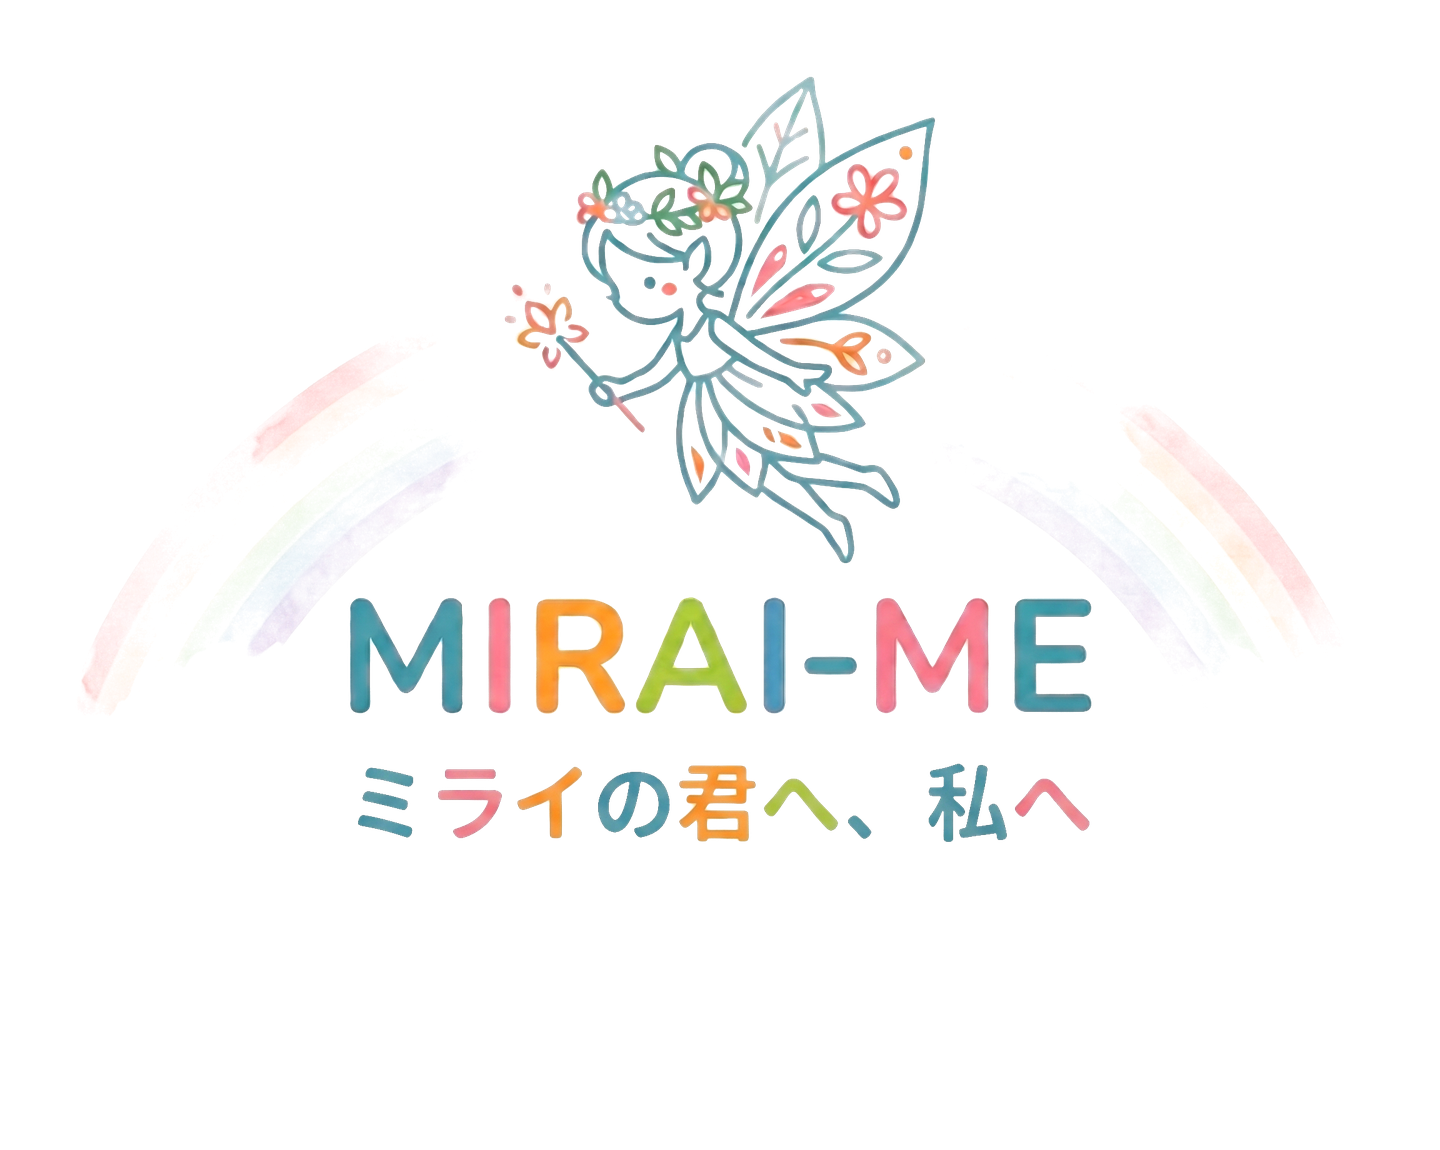
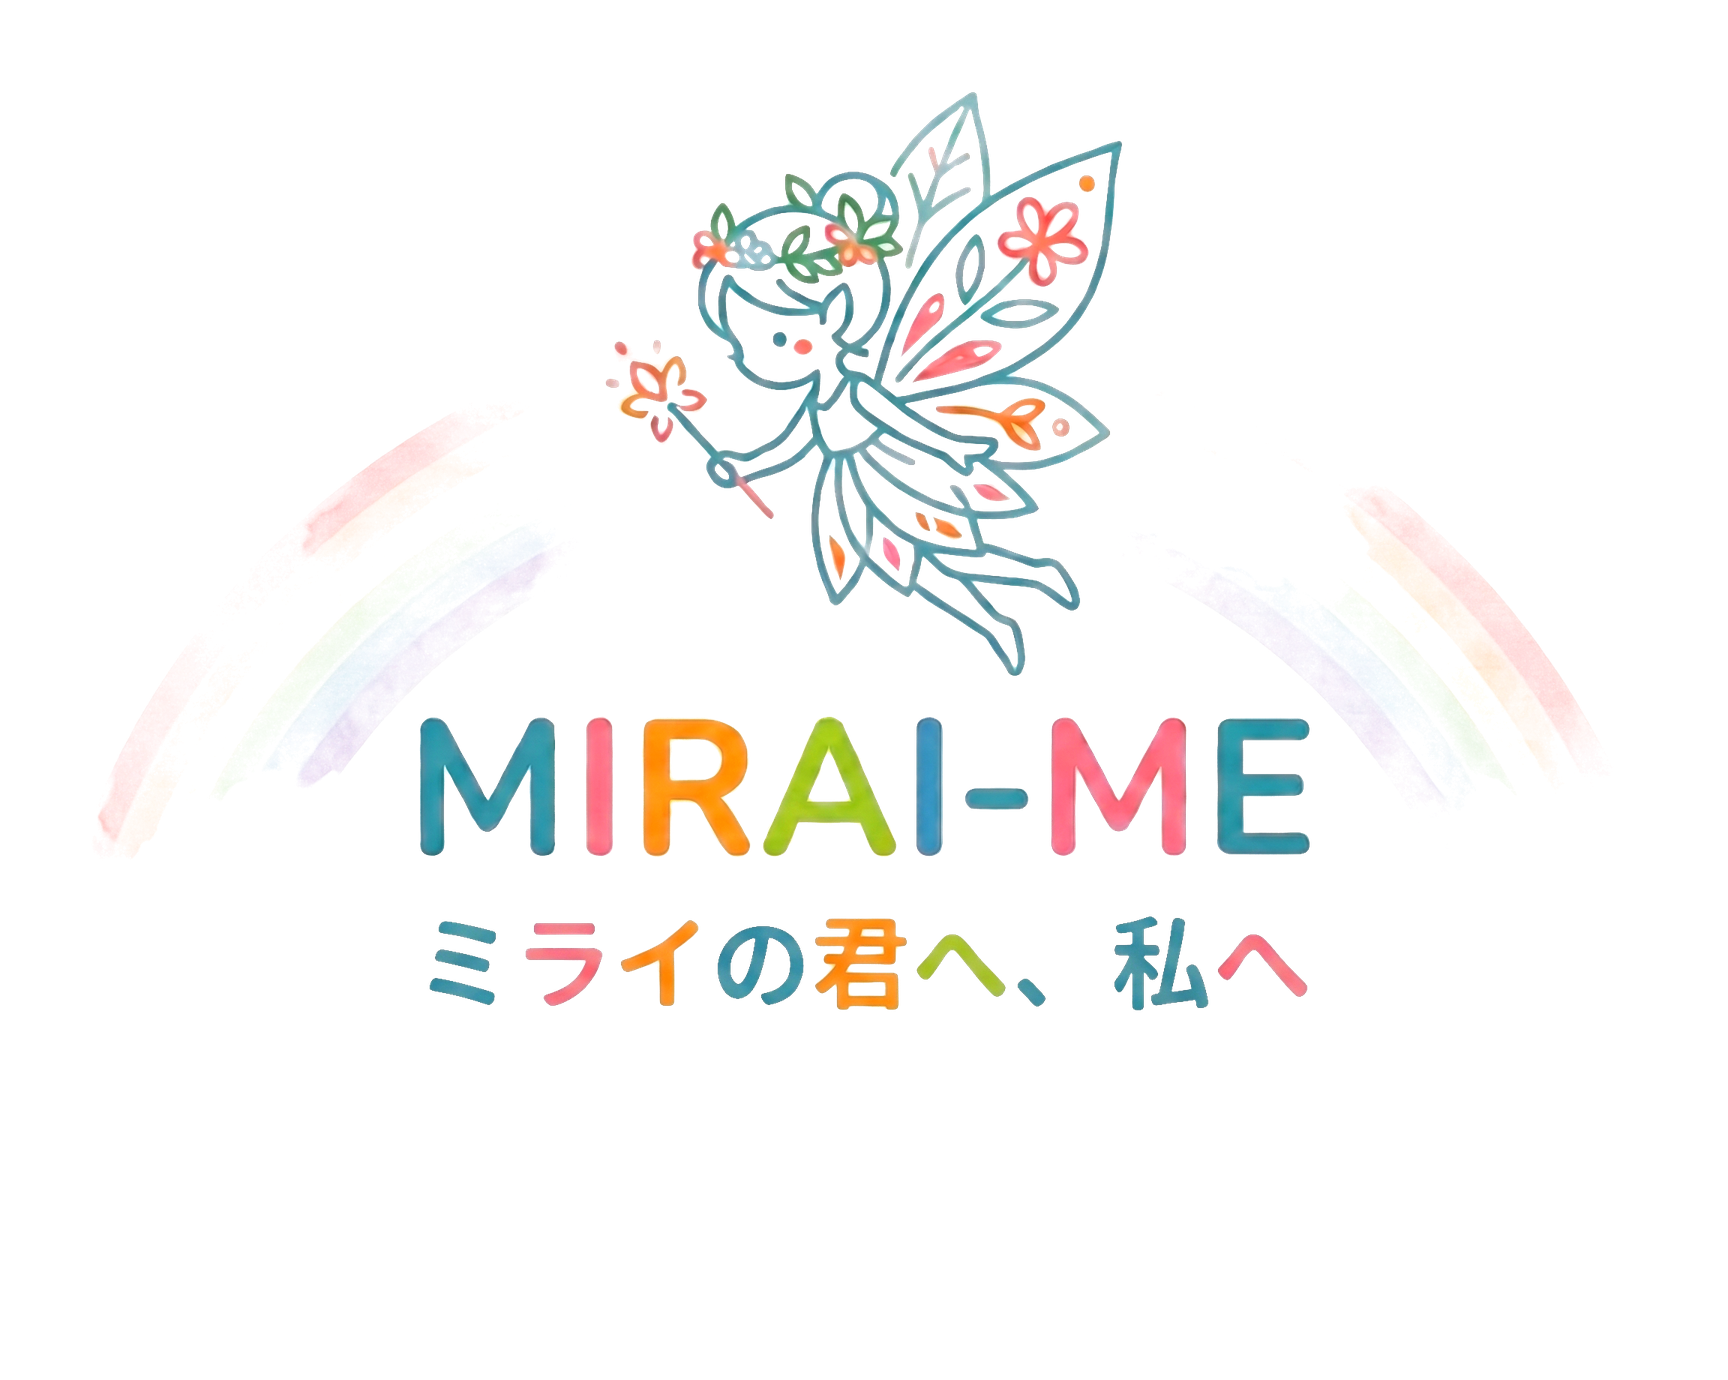
fix: 히어로 타이틀 줄바꿈 고정 + 로고 해상도·색감 강화
[타이틀 줄바꿈 고정]
- ja: "未来のわたしに\n会いに行こう" (2행 명시)
- ko: "미래의 나를\n만나러 가자" (2행 명시)
- HeroSection h1: whitespace-pre-line 추가
- 효과: 모든 화면 비율에서 동일 위치 줄바꿈

[로고 색감·해상도 강화]
- 해상도: 1440 → 1728px (맥북 레티나 2.4x 대응)
- 채도: +22% → +40% (파스텔 선명도)
- 대비: +12% → +20% (깊이감)
- 물빠진 느낌 해소, 맥북 디스플레이에서도 쩅한 색상

🤖 Generated with [Claude Code](https://claude.com/claude-code)

diff --git a/src/components/sections/HeroSection.tsx b/src/components/sections/HeroSection.tsx
@@ -85,7 +85,7 @@ export default function HeroSection() {
 
           <motion.h1
             variants={itemVariants}
-            className="mt-6 font-display text-4xl font-extrabold leading-tight text-warm-800 md:text-6xl"
+            className="mt-6 whitespace-pre-line font-display text-4xl font-extrabold leading-tight text-warm-800 md:text-6xl"
           >
             {t("tagline")}
           </motion.h1>
